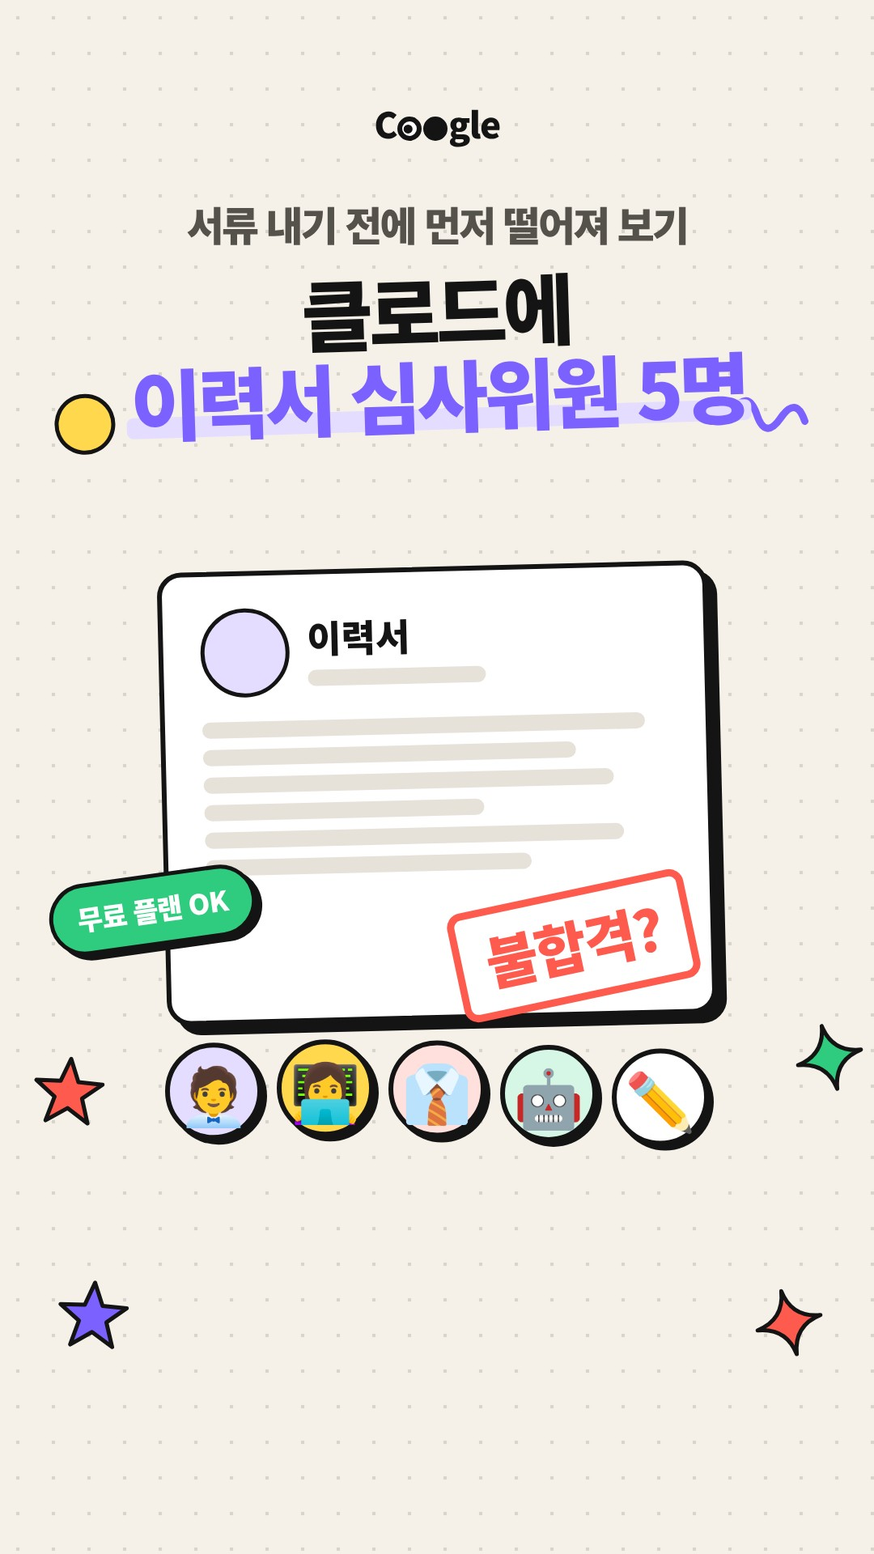
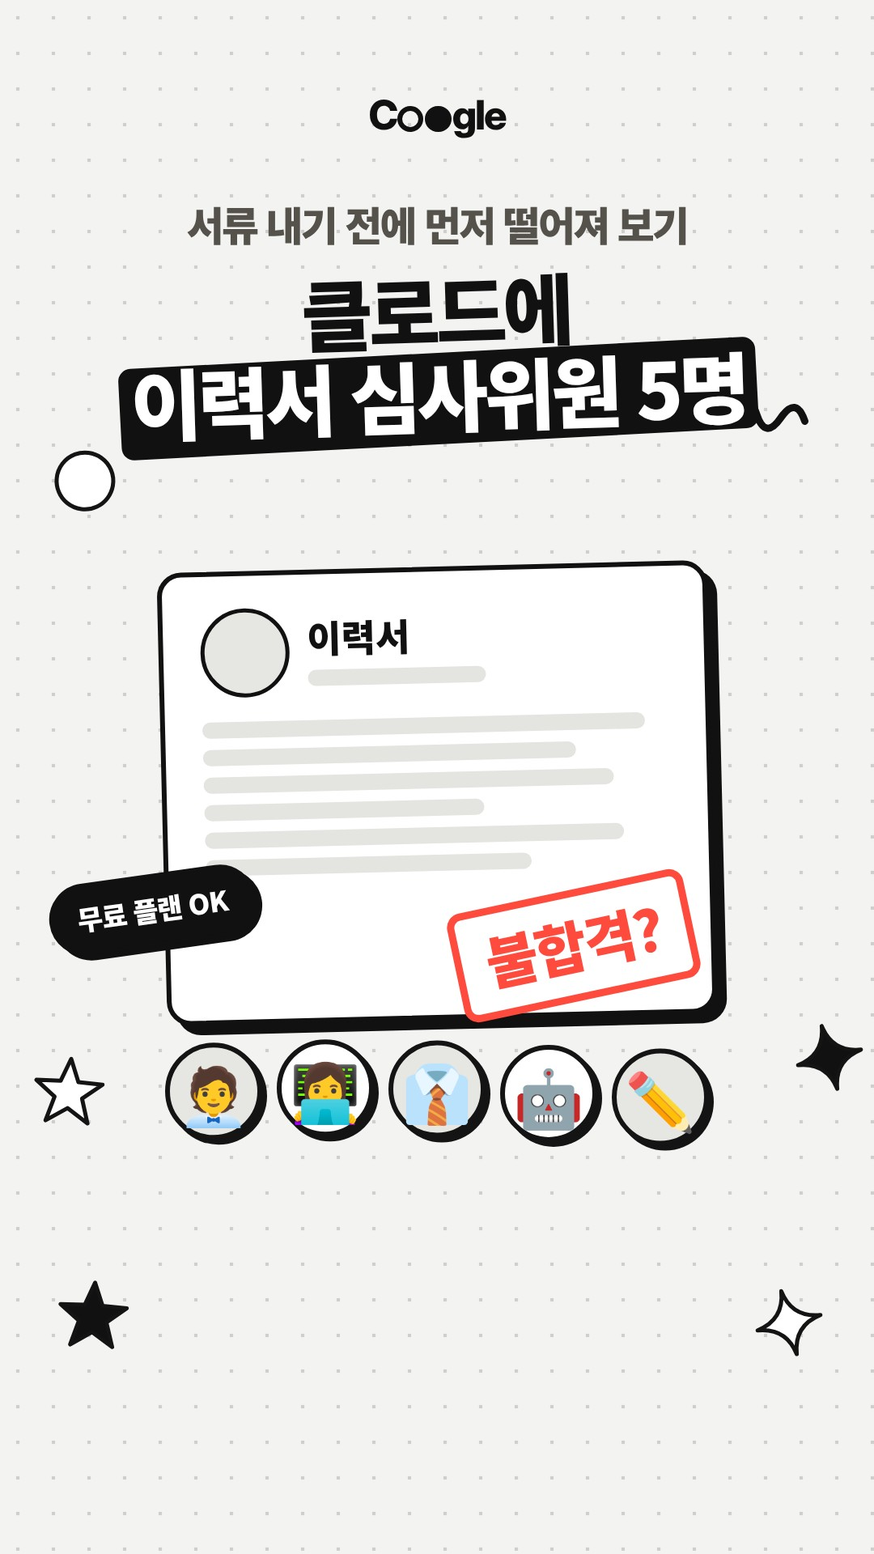
11/28 이력서 심사위원단 스토리보드 흑백 카툰 룩·프로필 로고로 갱신
Claude-Session: https://claude.ai/code/session_01YRvW7XDXfCjq67yjmpjZkr

diff --git a/ai/reels/2026-11-28-resume-judges/v1-cartoon/index.html b/ai/reels/2026-11-28-resume-judges/v1-cartoon/index.html
@@ -1,24 +1,22 @@
 <!doctype html>
 <html lang="ko"><head><meta charset="utf-8">
 <style>
-@font-face{font-family:P;font-weight:700;font-display:block;src:url(assets/fonts/Pretendard-Bold.woff2)}
-@font-face{font-family:P;font-weight:800;font-display:block;src:url(assets/fonts/Pretendard-ExtraBold.woff2)}
-@font-face{font-family:P;font-weight:900;font-display:block;src:url(assets/fonts/Pretendard-Black.woff2)}
-
-:root{--paper:#F5F1E8;--ink:#141414;--v:#7B61FF;--vl:#E4DDFF;--c:#FF5A4E;--cl:#FFE0DC;--m:#2FCB7E;--ml:#D6F7E5;--y:#FFD84D}
+@font-face{font-family:P,'Noto Sans CJK KR',sans-serif;font-weight:700;font-display:block;src:url(assets/fonts/Pretendard-Bold.woff2)}
+@font-face{font-family:P,'Noto Sans CJK KR',sans-serif;font-weight:800;font-display:block;src:url(assets/fonts/Pretendard-ExtraBold.woff2)}
+@font-face{font-family:P,'Noto Sans CJK KR',sans-serif;font-weight:900;font-display:block;src:url(assets/fonts/Pretendard-Black.woff2)}
+:root{--paper:#F3F3F1;--ink:#111111;--v:#111111;--vl:#E6E6E3;--c:#FF4B3E;--cl:#F1F1EE;--m:#111111;--ml:#FFFFFF;--y:#FFFFFF}
 *{box-sizing:border-box;margin:0;padding:0}
 html,body{width:1080px;height:1920px;overflow:hidden;background:var(--paper);font-family:P,'Noto Sans CJK KR',sans-serif;color:var(--ink);-webkit-font-smoothing:antialiased}
-#bg{position:absolute;inset:0;background-color:var(--paper);background-image:radial-gradient(rgba(20,20,20,.13) 2.2px,transparent 2.6px);background-size:44px 44px}
+#bg{position:absolute;inset:0;background-color:var(--paper);background-image:radial-gradient(rgba(17,17,17,.16) 2.2px,transparent 2.6px);background-size:44px 44px}
 .doo{position:absolute;width:90px;height:90px}
-#logo{position:absolute;left:0;right:0;top:120px;text-align:center;font-weight:900;font-size:44px;letter-spacing:-1.5px}
-#logo i{display:inline-block;width:30px;height:30px;border:6px solid var(--ink);border-radius:50%;margin:0 1px;vertical-align:-3px;position:relative;background:#fff}
-#logo i b{position:absolute;width:11px;height:11px;border-radius:50%;background:var(--ink);left:4px;top:5px}
-#logo i.f{background:var(--ink)}
+#logo{position:absolute;left:0;right:0;top:112px;display:flex;justify-content:center;align-items:center;font:800 50px 'Inter Display','Noto Sans CJK KR',sans-serif;letter-spacing:-2.2px;color:var(--ink)}
+#logo .ring{display:inline-block;width:32.6px;height:32.6px;border:6.5px solid var(--ink);border-radius:50%;box-sizing:border-box;margin:0 .9px;position:relative;top:4.8px}
+#logo .ring.f{background:var(--ink)}
 .S{position:absolute;inset:0;display:none}
-.kick{position:absolute;left:0;right:0;top:238px;text-align:center;font-size:46px;font-weight:800;color:#55524c;letter-spacing:-.03em}
+.kick{position:absolute;left:0;right:0;top:238px;text-align:center;font-size:46px;font-weight:800;color:#555555;letter-spacing:-.03em}
 .title{isolation:isolate;position:absolute;left:40px;right:40px;top:300px;text-align:center;font-size:96px;font-weight:900;letter-spacing:-.055em;line-height:1.06}
-v,.v{color:var(--v);position:relative;display:inline-block}
-v::after{content:'';position:absolute;left:-6px;right:-6px;bottom:6px;height:26px;background:var(--vl);z-index:-1;border-radius:8px}
+v,.v{color:#fff;position:relative;display:inline-block;padding:0 .14em .04em}
+v::after{content:'';position:absolute;left:0;right:0;top:.02em;bottom:-.08em;background:var(--ink);z-index:-1;border-radius:.16em;transform:rotate(-1.2deg)}
 .card{position:absolute;background:#fff;border:6px solid var(--ink);border-radius:30px;box-shadow:12px 12px 0 var(--ink)}
 .win{position:absolute;left:90px;top:590px;width:900px;background:#fff;border:6px solid var(--ink);border-radius:30px;box-shadow:14px 14px 0 var(--ink);overflow:hidden}
 .win .bar{height:58px;border-bottom:6px solid var(--ink);display:flex;align-items:center;gap:12px;padding:0 20px;background:var(--vl)}
@@ -27,19 +25,18 @@ v::after{content:'';position:absolute;left:-6px;right:-6px;bottom:6px;height:26p
 .win .view{position:relative;width:888px;height:520px;overflow:hidden;background:#fff}
 .win .view img{position:absolute;left:0;top:0;width:1600px;transform-origin:0 0}
 .chip{position:absolute;white-space:nowrap;font-size:40px;font-weight:900;letter-spacing:-.03em;padding:14px 30px 16px;border-radius:999px;background:#fff;border:5px solid var(--ink);box-shadow:7px 7px 0 var(--ink)}
-.chip.vi{background:var(--v);color:#fff}.chip.co{background:var(--c);color:#fff}.chip.mi{background:var(--m);color:#fff}
+.chip.vi{background:var(--ink);color:#fff}.chip.co{background:var(--c);color:#fff}.chip.mi{background:var(--m);color:#fff}
 .stamp{position:absolute;font-size:70px;font-weight:900;padding:6px 30px 12px;border:9px solid var(--c);color:var(--c);border-radius:18px;background:rgba(255,255,255,.92);letter-spacing:-.04em}
 #cap{position:absolute;left:0;right:0;top:1395px;display:flex;justify-content:center}
 #capIn{max-width:980px;text-align:center;font-size:58px;font-weight:900;letter-spacing:-.04em;line-height:1.2;background:#fff;border:5px solid var(--ink);border-radius:26px;box-shadow:8px 8px 0 var(--ink);padding:16px 34px 20px}
-#capIn b{color:var(--v)}
-#burst{position:absolute;left:520px;top:880px;width:40px;height:40px;border-radius:50%;border:2px solid var(--v);opacity:0}
-.line{height:20px;border-radius:10px;background:#E6E2DA;margin:14px 0}
+#capIn b{color:#fff;background:var(--ink);border-radius:10px;padding:0 10px 2px;margin:0 2px}
+#burst{position:absolute;left:520px;top:880px;width:40px;height:40px;border-radius:50%;border:2px solid #111;opacity:0}
+.line{height:20px;border-radius:10px;background:#E4E4E1;margin:14px 0}
 .en{font-size:34px;font-weight:800;line-height:1.35;letter-spacing:-.01em}
 .mk{position:absolute;border:7px solid var(--c);border-radius:50%}
 .num{position:absolute;width:190px;height:190px;border-radius:50%;border:7px solid var(--ink);box-shadow:9px 9px 0 var(--ink);display:flex;align-items:center;justify-content:center;font-size:96px;font-weight:900}
 .lab{position:absolute;width:300px;text-align:center;font-size:42px;font-weight:900;letter-spacing:-.04em}
 svg{overflow:visible}
-
 </style></head><body>
 <style>
 .judge{position:absolute;width:176px;text-align:center}
@@ -49,7 +46,7 @@ svg{overflow:visible}
 .row{display:flex;align-items:center;gap:18px;font-size:34px;font-weight:900;margin:14px 0;letter-spacing:-.04em}
 .row .ic{width:64px;height:64px;border-radius:50%;border:5px solid var(--ink);display:flex;align-items:center;justify-content:center;font-size:34px;flex:none}
 .row .bar{flex:1;height:30px;border:5px solid var(--ink);border-radius:16px;background:#F1EEE6;overflow:hidden}
-.row .bar i{display:block;height:100%;background:var(--v)}
+.row .bar i{display:block;height:100%;background:var(--ink)}
 .row .sc{width:110px;text-align:right}
 .ui{padding:26px 30px;font-size:30px;font-weight:800}
 .btn{display:inline-block;padding:12px 24px;border:5px solid var(--ink);border-radius:16px;background:var(--ink);color:#fff;font-weight:900;font-size:30px}
@@ -72,14 +69,14 @@ svg{overflow:visible}
   <div class="line" style="width:95%;margin-top:30px"></div><div class="line" style="width:80%"></div><div class="line" style="width:88%"></div><div class="line" style="width:60%"></div><div class="line" style="width:90%"></div><div class="line" style="width:70%"></div>
  </div>
  <div class="stamp" id="hStamp" style="left:560px;top:1040px">불합격?</div>
- <div class="chip mi" id="hFree" style="left:60px;top:1080px;font-size:34px">무료 플랜 OK</div>
+ <div class="chip vi" id="hFree" style="left:60px;top:1080px;font-size:34px">무료 플랜 OK</div>
  <div id="hRow" style="position:absolute;left:0;right:0;top:1180px;display:flex;justify-content:center;gap:18px;font-size:70px"></div>
 </div>
 
 <!-- 2 project 3.90 -->
 <div class="S" id="proj">
  <div class="kick">클로드 프로젝트에</div><div class="title"><v>심사위원단</v> 앉혀 두기</div>
- <div class="win" id="pWin"><div class="bar"><i style="background:var(--c)"></i><i style="background:var(--y)"></i><i style="background:var(--m)"></i><span>claude.ai/projects</span></div>
+ <div class="win" id="pWin"><div class="bar"><i style="background:#fff"></i><i style="background:#fff"></i><i style="background:var(--ink)"></i><span>claude.ai/projects</span></div>
   <div class="view ui" style="height:470px">
    <div style="display:flex;align-items:center"><span style="font-size:44px;font-weight:900">Projects</span><span class="btn" style="margin-left:auto">+ New Project</span></div>
    <div id="pCard" class="card" style="position:relative;margin-top:36px;padding:30px;box-shadow:8px 8px 0 var(--ink);background:var(--vl)">
@@ -93,9 +90,9 @@ svg{overflow:visible}
 <div class="S" id="panel">
  <div class="kick">심사위원 5명</div><div class="title">각자 <v>다른 눈</v>으로 봐요</div>
  <div class="judge" id="j0" style="left:110px;top:640px"><div class="face" style="background:var(--vl)">🧑💼</div><div class="nm">인사 담당자</div></div>
- <div class="judge" id="j1" style="left:452px;top:640px"><div class="face" style="background:var(--y)">👩💻</div><div class="nm">현업 팀장</div></div>
- <div class="judge" id="j2" style="left:794px;top:640px"><div class="face" style="background:var(--cl)">👔</div><div class="nm">임원</div></div>
- <div class="judge" id="j3" style="left:280px;top:960px"><div class="face" style="background:var(--ml)">🤖</div><div class="nm">채용 시스템</div></div>
+ <div class="judge" id="j1" style="left:452px;top:640px"><div class="face" style="background:#fff">👩💻</div><div class="nm">현업 팀장</div></div>
+ <div class="judge" id="j2" style="left:794px;top:640px"><div class="face" style="background:#E6E6E3">👔</div><div class="nm">임원</div></div>
+ <div class="judge" id="j3" style="left:280px;top:960px"><div class="face" style="background:#fff">🤖</div><div class="nm">채용 시스템</div></div>
  <div class="ex" style="left:0;right:0;top:1290px;text-align:center">클로드가 역할극으로 하는 모의 심사예요</div>
  <div class="judge" id="j4" style="left:624px;top:960px"><div class="face" style="background:#fff">✏</div><div class="nm">맞춤법 검사관</div></div>
 </div>
@@ -105,8 +102,8 @@ svg{overflow:visible}
  <div class="kick">각자 점수 매기고</div><div class="title"><v>떨어뜨릴 이유</v>부터</div>
  <div class="card" id="sCard" style="left:90px;top:590px;width:900px;padding:22px 34px">
   <div class="row"><span class="ic" style="background:var(--vl)">🧑💼</span><span style="width:200px">인사</span><span class="bar"><i id="b0"></i></span><span class="sc" id="v0">0</span></div>
-  <div class="row"><span class="ic" style="background:var(--y)">👩💻</span><span style="width:200px">팀장</span><span class="bar"><i id="b1"></i></span><span class="sc" id="v1">0</span></div>
-  <div class="row"><span class="ic" style="background:var(--cl)">👔</span><span style="width:200px">임원</span><span class="bar"><i id="b2"></i></span><span class="sc" id="v2">0</span></div>
+  <div class="row"><span class="ic" style="background:#fff">👩💻</span><span style="width:200px">팀장</span><span class="bar"><i id="b1"></i></span><span class="sc" id="v1">0</span></div>
+  <div class="row"><span class="ic" style="background:#E6E6E3">👔</span><span style="width:200px">임원</span><span class="bar"><i id="b2"></i></span><span class="sc" id="v2">0</span></div>
  </div>
  <div class="card" id="rCard" style="left:130px;top:930px;width:820px;padding:24px 34px;background:var(--cl)">
   <div style="font-size:34px;font-weight:900;color:var(--c);margin-bottom:8px">❌ 떨어뜨릴 이유</div>
@@ -121,20 +118,20 @@ svg{overflow:visible}
 <div class="S" id="steps">
  <div class="kick">무료 플랜도 되고</div><div class="title">세팅은 <v>3단계</v></div>
  <div class="num" id="n1" style="left:95px;top:680px;background:var(--vl)">1</div>
- <div class="num" id="n2" style="left:445px;top:680px;background:var(--y)">2</div>
- <div class="num" id="n3" style="left:795px;top:680px;background:var(--ml)">3</div>
+ <div class="num" id="n2" style="left:445px;top:680px;background:#fff">2</div>
+ <div class="num" id="n3" style="left:795px;top:680px;background:#fff">3</div>
  <div class="lab" id="l1" style="left:40px;top:910px">프로젝트</div>
  <div class="lab" id="l2" style="left:390px;top:910px">지침 붙여 넣기</div>
  <div class="lab" id="l3" style="left:740px;top:910px">이력서·공고</div>
  <div id="tag" style="position:absolute;left:390px;top:1010px;width:300px;transform-origin:150px 0">
-  <svg width="300" height="230" viewBox="0 0 300 230"><line x1="150" y1="0" x2="150" y2="50" stroke="#141414" stroke-width="7"/><path d="M40,50 H260 L280,85 V215 H20 V85 Z" fill="#FF5A4E" stroke="#141414" stroke-width="8" stroke-linejoin="round"/><circle cx="150" cy="78" r="11" fill="#F5F1E8" stroke="#141414" stroke-width="6"/><text x="150" y="180" text-anchor="middle" font-family="P,Noto Sans CJK KR" font-weight="900" font-size="72" fill="#fff">0원</text></svg>
+  <svg width="300" height="230" viewBox="0 0 300 230"><line x1="150" y1="0" x2="150" y2="50" stroke="#141414" stroke-width="7"/><path d="M40,50 H260 L280,85 V215 H20 V85 Z" fill="#111111" stroke="#111111" stroke-width="8" stroke-linejoin="round"/><circle cx="150" cy="78" r="11" fill="#F5F1E8" stroke="#141414" stroke-width="6"/><text x="150" y="180" text-anchor="middle" font-family="P,Noto Sans CJK KR" font-weight="900" font-size="72" fill="#fff">0원</text></svg>
  </div>
 </div>
 
 <!-- 6 s1 18.50 -->
 <div class="S" id="s1">
  <div class="kick">①</div><div class="title"><v>프로젝트</v> 만들기</div>
- <div class="win" id="aWin"><div class="bar"><i style="background:var(--c)"></i><i style="background:var(--y)"></i><i style="background:var(--m)"></i><span>claude.ai/projects</span></div>
+ <div class="win" id="aWin"><div class="bar"><i style="background:#fff"></i><i style="background:#fff"></i><i style="background:var(--ink)"></i><span>claude.ai/projects</span></div>
   <div class="view ui" style="height:470px">
    <div style="display:flex;align-items:center"><span style="font-size:44px;font-weight:900">Projects</span><span class="btn" id="newBtn" style="margin-left:auto">+ New Project</span></div>
    <div style="margin-top:40px;font-size:28px;color:#666">이름</div><div class="fld" id="pName"></div>
@@ -146,7 +143,7 @@ svg{overflow:visible}
 <!-- 7 s2 19.90 -->
 <div class="S" id="s2">
  <div class="kick">② 지침에</div><div class="title" style="font-size:88px"><v>심사위원 프롬프트</v></div>
- <div class="win" id="bWin"><div class="bar"><i style="background:var(--c)"></i><i style="background:var(--y)"></i><i style="background:var(--m)"></i><span>Set project instructions</span></div>
+ <div class="win" id="bWin"><div class="bar"><i style="background:#fff"></i><i style="background:#fff"></i><i style="background:var(--ink)"></i><span>Set project instructions</span></div>
   <div class="view ui" style="height:470px">
    <div id="inst" style="font-size:30px;line-height:1.5;font-weight:800;color:#333"></div>
    <div style="position:absolute;left:30px;right:30px;top:250px;bottom:110px;background:linear-gradient(rgba(255,255,255,0),#fff 70%)"></div>
@@ -158,12 +155,12 @@ svg{overflow:visible}
 <!-- 8 s3 22.20 -->
 <div class="S" id="s3">
  <div class="kick">③ 지식에</div><div class="title"><v>이력서·채용 공고</v></div>
- <div class="win" id="cWin"><div class="bar"><i style="background:var(--c)"></i><i style="background:var(--y)"></i><i style="background:var(--m)"></i><span>Project knowledge</span></div>
+ <div class="win" id="cWin"><div class="bar"><i style="background:#fff"></i><i style="background:#fff"></i><i style="background:var(--ink)"></i><span>Project knowledge</span></div>
   <div class="view ui" style="height:470px"><div style="display:flex;align-items:center"><span style="font-size:40px;font-weight:900">Files</span><span class="btn" style="margin-left:auto;background:#fff;color:var(--ink)">+</span></div>
    <div style="margin-top:30px;border:5px dashed #aaa;border-radius:24px;height:300px"></div></div></div>
  <div class="file" id="f1"><b></b>이력서.pdf</div>
- <div class="file" id="f2"><b style="background:var(--ml)"></b>채용공고.pdf</div>
- <div class="stamp" id="done" style="left:650px;top:1160px;border-color:var(--m);color:var(--m)">끝!</div>
+ <div class="file" id="f2"><b style="background:#fff"></b>채용공고.pdf</div>
+ <div class="stamp" id="done" style="left:650px;top:1160px;border-color:var(--ink);color:var(--ink)">끝!</div>
 </div>
 
 <!-- 9 ask 24.30 -->
@@ -174,7 +171,7 @@ svg{overflow:visible}
    <div style="font-size:34px;font-weight:900;margin-bottom:6px">⚖ 심사 결과</div>
    <div>🧑💼 인사 7 · 👩💻 팀장 6 · 👔 임원 5</div><div>🤖 키워드 일치 62% · ✏ 맞춤법 3곳</div>
    <div style="margin-top:8px;color:var(--c);font-weight:900">→ 이대로면 서류 탈락 가능성 높음</div>
-   <div style="color:var(--m);font-weight:900">→ 고친 문장 3개 제안</div>
+   <div style="color:#111;font-weight:900">→ 고친 문장 3개 제안</div>
   </div>
   <div style="position:absolute;left:36px;right:36px;bottom:30px;display:flex;align-items:center;border:5px solid var(--ink);border-radius:24px;padding:16px 22px;font-size:44px;font-weight:900;background:#fff"><span id="say"></span><span id="caret" style="display:inline-block;width:5px;height:48px;background:var(--v);margin-left:6px"></span><span id="send" style="margin-left:auto;width:74px;height:74px;border-radius:50%;border:5px solid var(--ink);display:flex;align-items:center;justify-content:center;font-size:40px;background:#fff">↑</span></div>
  </div>
@@ -197,7 +194,7 @@ svg{overflow:visible}
 <!-- 11 save 28.70 -->
 <div class="S" id="save">
  <div class="kick">지원할 때마다 꺼내 쓰게</div><div class="title"><v>저장</v>해 두세요</div>
- <svg id="bm" width="300" height="400" viewBox="0 0 300 400" style="position:absolute;left:390px;top:640px;transform-origin:150px 400px"><path d="M30,20 H270 V380 L150,290 L30,380 Z" fill="#7B61FF" stroke="#141414" stroke-width="12" stroke-linejoin="round"/><circle cx="110" cy="150" r="14" fill="#141414"/><circle cx="190" cy="150" r="14" fill="#141414"/><path d="M110,195 Q150,230 190,195" fill="none" stroke="#141414" stroke-width="10" stroke-linecap="round"/></svg>
+ <svg id="bm" width="300" height="400" viewBox="0 0 300 400" style="position:absolute;left:390px;top:640px;transform-origin:150px 400px"><path d="M30,20 H270 V380 L150,290 L30,380 Z" fill="#111111" stroke="#141414" stroke-width="12" stroke-linejoin="round"/><circle cx="110" cy="150" r="14" fill="#fff"/><circle cx="190" cy="150" r="14" fill="#fff"/><path d="M110,195 Q150,230 190,195" fill="none" stroke="#fff" stroke-width="10" stroke-linecap="round"/></svg>
 </div>
 
 <!-- 12 cta 31.00 -->
@@ -211,7 +208,7 @@ svg{overflow:visible}
  </div>
 </div>
 
-<div id="logo">C<i><b></b></i><i class="f"></i>gle</div>
+<div id="logo">C<span class="ring"></span><span class="ring f"></span>gle</div>
 <div id="cap"><div id="capIn"></div></div>
 
 <script src="main.js"></script>

diff --git a/ai/reels/2026-11-28-resume-judges/v1-cartoon/main.js b/ai/reels/2026-11-28-resume-judges/v1-cartoon/main.js
@@ -23,10 +23,10 @@ const CAPS = [
 const SC = [['hook', 0], ['proj', 3.7], ['panel', 6.7], ['score', 9.2], ['steps', 12.2], ['s1', 14.6], ['s2', 15.8], ['s3', 17.9], ['ask', 19.9], ['priv', 22.0], ['save', 24.0], ['cta', 26.4]];
 const DUR = 30.6;
 
-const DOO = [['star', 70, 1590, '#7B61FF'], ['spark', 930, 1600, '#FF5A4E'], ['squig', 900, 470, '#7B61FF'], ['circ', 60, 470, '#FFD84D'], ['spark', 980, 1250, '#2FCB7E'], ['star', 40, 1300, '#FF5A4E']];
+const DOO = [['star', 70, 1590, '#111111'], ['spark', 930, 1600, '#FFFFFF'], ['squig', 900, 470, '#111111'], ['circ', 60, 540, '#FFFFFF'], ['spark', 980, 1250, '#111111'], ['star', 40, 1300, '#FFFFFF']];
 const shp = { star: 'M45,5 L56,33 L86,34 L62,53 L71,83 L45,66 L19,83 L28,53 L4,34 L34,33 Z', spark: 'M45,5 Q50,40 85,45 Q50,50 45,85 Q40,50 5,45 Q40,40 45,5 Z', squig: 'M5,45 Q20,15 35,45 T65,45 T95,45', circ: 'M45,10 A35,35 0 1 1 44.9,10 Z' };
 $('#doos').innerHTML = DOO.map(([k, x, y, c], i) => `<svg class="doo" id="d${i}" viewBox="0 0 90 90" style="left:${x}px;top:${y}px"><path d="${shp[k]}" fill="${k === 'squig' ? 'none' : c}" stroke="${k === 'squig' ? c : '#141414'}" stroke-width="${k === 'squig' ? 9 : 5}" stroke-linejoin="round" stroke-linecap="round"/></svg>`).join('');
-$('#hRow').innerHTML = ['🧑💼', '👩💻', '👔', '🤖', '✏'].map((e, i) => `<span id="hj${i}" style="width:120px;height:120px;border-radius:50%;border:6px solid #141414;box-shadow:6px 6px 0 #141414;background:${['#E4DDFF', '#FFD84D', '#FFE0DC', '#D6F7E5', '#fff'][i]};display:flex;align-items:center;justify-content:center">${e}</span>`).join('');
+$('#hRow').innerHTML = ['🧑💼', '👩💻', '👔', '🤖', '✏'].map((e, i) => `<span id="hj${i}" style="width:120px;height:120px;border-radius:50%;border:6px solid #141414;box-shadow:6px 6px 0 #141414;background:${['#E6E6E3', '#fff', '#E6E6E3', '#fff', '#E6E6E3'][i]};display:flex;align-items:center;justify-content:center">${e}</span>`).join('');
 
 function winIn(e, t, a = 0) { const k = bo(seg(t, a, a + 0.45), 1.5); css(e, { opacity: t >= a ? 1 : 0, transform: `translateY(${(1 - eo(seg(t, a, a + 0.35))) * 140}px) rotate(${lerp(-4, -1, k) + wob(t, 0.25, 0.4)}deg) scale(${lerp(0.7, 1, k)})` }); }
 function head(S, t) { const k = $(`#${S} .kick`), ti = $(`#${S} .title`); if (k) pop(k, t, 0.0, '', 0.3); if (ti) pop(ti, t, 0.05, '', 0.42); }
@@ -70,7 +70,7 @@ function render(t) {
  const ce = $('#capIn'); if (ce.dataset.k != c) { ce.innerHTML = CAPS[c][1]; ce.dataset.k = c; }
  const ck = bo(seg(t, CAPS[c][0], CAPS[c][0] + 0.22), 1.6); ce.style.transform = `scale(${lerp(0.85, 1, ck)}) rotate(${c % 2 ? 0.8 : -0.8}deg)`;
  DOO.forEach((d, k) => css($('#d' + k), { transform: `translateY(${Math.sin(t * 1.3 + k) * 12}px) rotate(${Math.sin(t * 0.9 + k * 2) * 14}deg)` }));
- document.querySelector('#logo i b').style.transform = `translate(${Math.sin(t * 1.7) * 3}px,${Math.cos(t * 1.3) * 2}px)`;
+ 
 }
 window.__timelines = { main: { seek: async (t) => { render(t); }, duration: () => DUR } };
 if (location.href.includes('cover')) { $('#cap').style.display = 'none'; $('#hA').textContent = '서류 내기 전에 먼저 떨어져 보기'; css($('#hA'), { fontSize: '50px', color: '#55524c', top: '250px' }); $('#hB').innerHTML = '클로드에<br><v>이력서 심사위원 5명</v>'; css($('#hB'), { fontSize: '96px', top: '330px' }); $('#hRes').style.top = '700px'; $('#hStamp').style.top = '1100px'; $('#hRow').style.top = '1290px'; }

diff --git a/playbook/log/2026-11-28.md b/playbook/log/2026-11-28.md
@@ -1,1 +1,1 @@
-- (11.27 08:47 예약 준비) 11/28(토) 18:00 '클로드 이력서 심사위원단(프로젝트 지침에 심사위원 5명)' 대본(19줄, 약 30초)·카툰 룩 스토리보드 시안 14프레임+표지·캡션·노션 자료(42498083…e96f, 프롬프트+질문 3개)·dm.json, 키워드 '심사'. 근거: Claude 고객센터 프로젝트(무료 5개)·만들기 절차, 개인정보 'AI 모델 개선 지원'. 검토: 팩트체커 조건부 PASS(설정 이름 수정, 모의 심사 표기), 그로스 조건부 PASS(21→19줄, 0초 '무료' 스티커, '팔로우하고' 클로징). 진행자 새 의상(오트밀 오버셔츠) 러다이트 후보 2장. 녹음 대기.
+- (11.27 08:47 예약 준비) 11/28(토) 18:00 '클로드 이력서 심사위원단(프로젝트 지침에 심사위원 5명)' 대본(19줄, 약 30초)·흑백 카툰 룩 스토리보드 시안 14프레임+표지·캡션·노션 자료(42498083…e96f, 프롬프트+질문 3개)·dm.json, 키워드 '심사'. 근거: Claude 고객센터 프로젝트(무료 5개)·만들기 절차, 개인정보 'AI 모델 개선 지원'. 검토: 팩트체커 조건부 PASS(설정 이름 수정, 모의 심사 표기), 그로스 조건부 PASS(21→19줄, 0초 '무료' 스티커, '팔로우하고' 클로징). 진행자 새 의상(오트밀 오버셔츠) 러다이트 후보 2장. 녹음 대기.

diff --git a/ai/reels/2026-11-28-resume-judges/host.md b/ai/reels/2026-11-28-resume-judges/host.md
@@ -1,4 +1,4 @@
 # 11/28 진행자 첫 장면 (러다이트, 선택 사용)
 - 의상: 오트밀 베이지 코듀로이 오버셔츠(앞 열고) + 흰 크루넥 티 / 배경: 낮 서재, 흰 책장·파일 상자, 원목 책상 위 빈 출력지 몇 장, 옆 창 흐린 낮빛, 작은 화분
 - 러다이트 image request b2be4807-e652-4cb6-a1a8-20cfe4435007 (reference_edit, source = 첫 장면 기준 b911893f, 1440x2560) → 후보 asset 6c1dacb8-1e82-49aa-9f3c-0b6d5cba6e82, 4a361c29-3448-4680-a599-53e5ddea2e36 (리뷰 PASS)
-- 11/27 카툰 룩(기준 휴머나이저 v3-cartoon)은 진행자 없이 전체 화면이라 시안도 진행자 없이 만듦. 사용자가 진행자 컷을 원하면 위 후보 중 하나로 15초×2 컷(native_high + 1080p)
+- 11/27 흑백 카툰 룩(기준 휴머나이저 v4-bw-cartoon)은 진행자 없이 전체 화면이라 시안도 진행자 없이 만듦. 사용자가 진행자 컷을 원하면 위 후보 중 하나로 15초×2 컷(native_high + 1080p)
